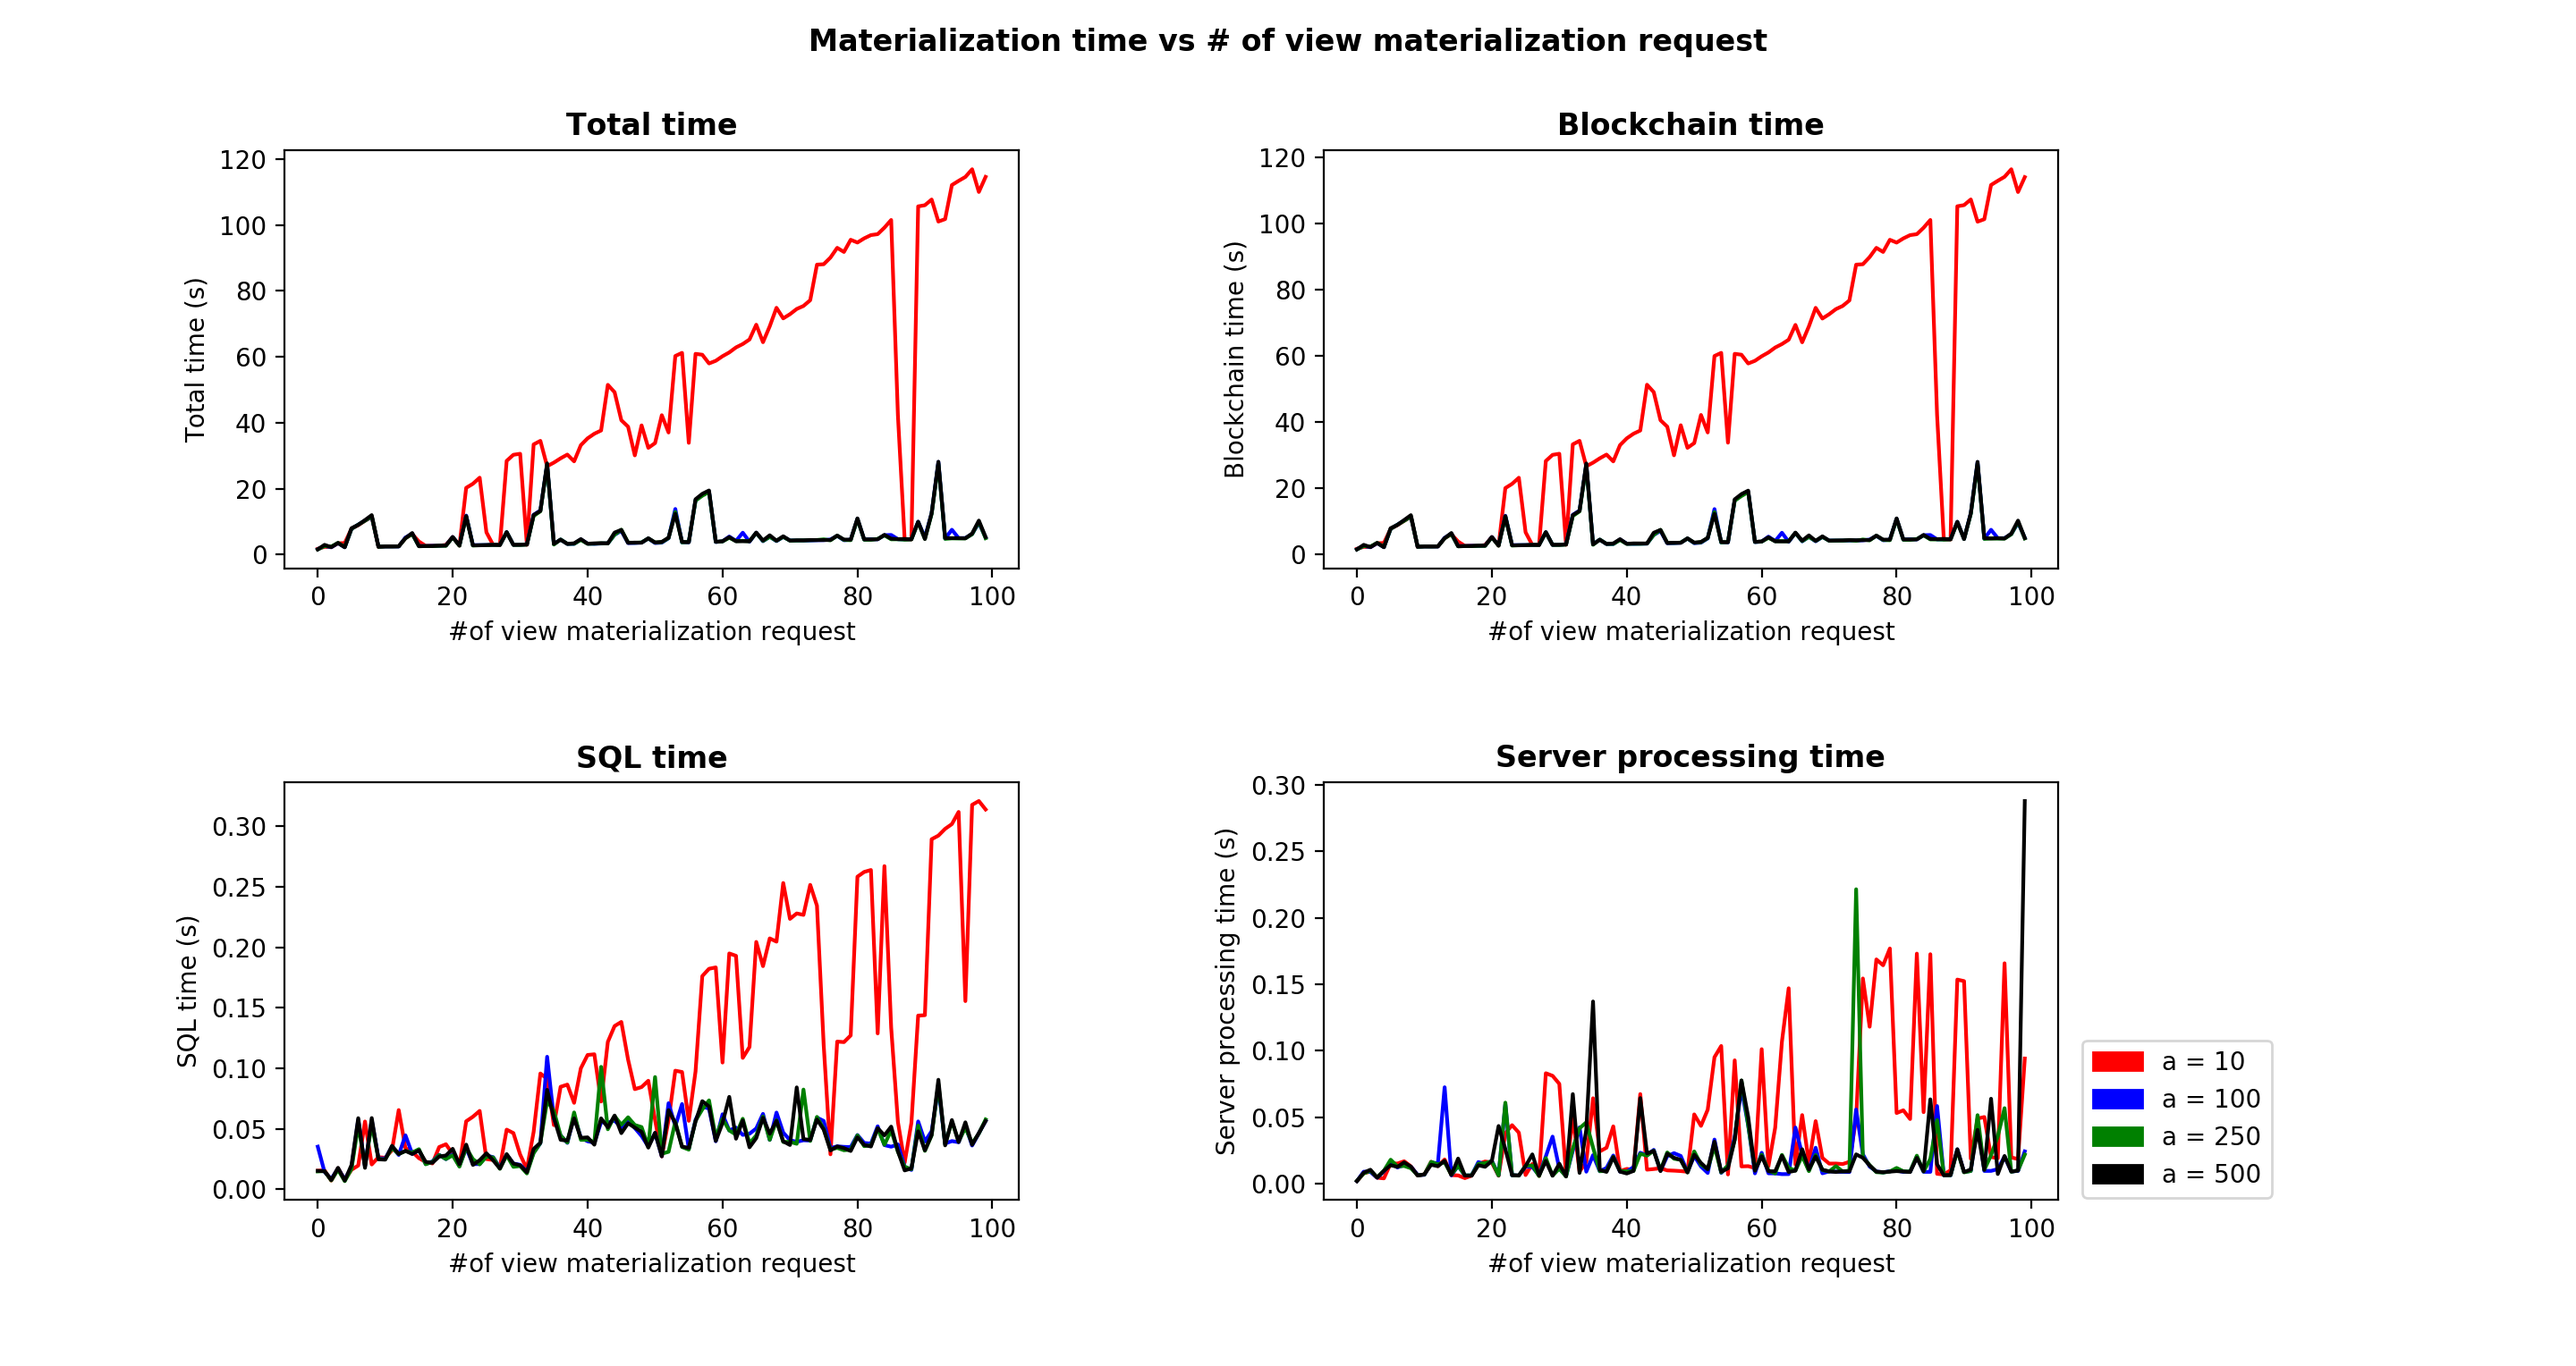
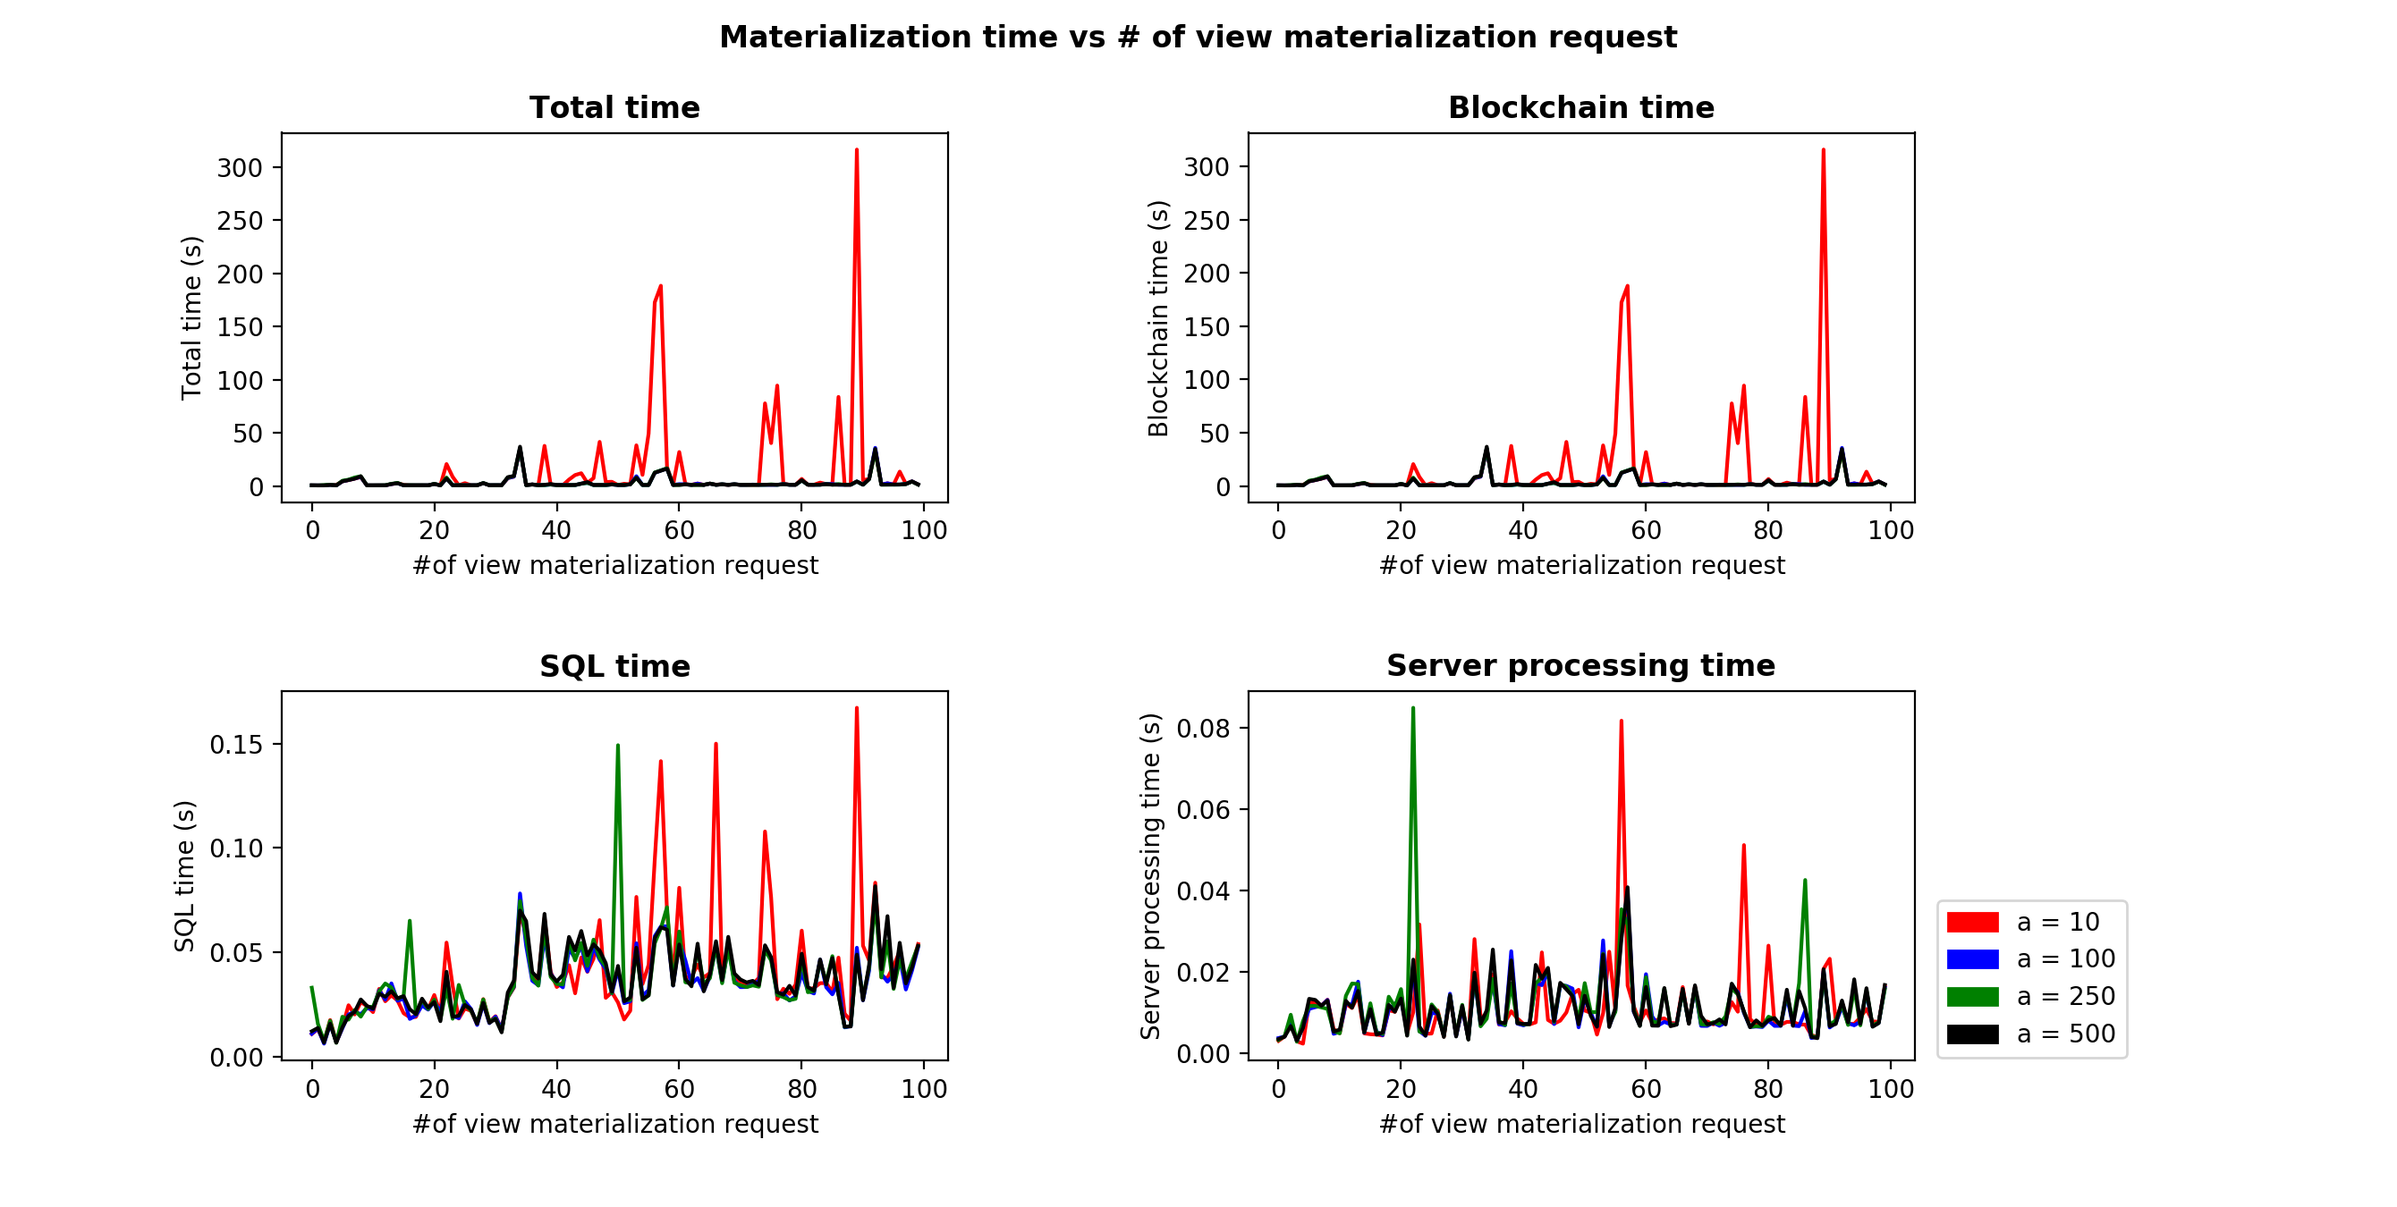
- new results graph

diff --git a/helpers/costFunctions.js b/helpers/costFunctions.js
@@ -6,7 +6,7 @@ function cost (Vi, V, latestFact) {
     // The cost of materializing view V using the cached view Vi
     const sizeDeltas = latestFact - Number.parseInt(Vi.latestFact); // latestFact is the latest fact written in bc
     const sizeCached = Number.parseInt(Vi.size);
-    V.calculationCost = 10 * sizeDeltas + sizeCached;
+    V.calculationCost = 500 * sizeDeltas + sizeCached;
     return V;
 }
 
@@ -20,7 +20,7 @@ function costMat (V, Vc, latestFact) {
         if (isMaterializableFrom(V,Vi)) {
             const sizeDeltas = latestFact - Number.parseInt(Vi.latestFact); // latestFact is the latest fact written in bc
             const sizeCached = Number.parseInt(Vi.size);
-            V.calculationCost = 10 * sizeDeltas + sizeCached;
+            V.calculationCost = 500 * sizeDeltas + sizeCached;
             costs.push(V);
         }
     }
@@ -119,7 +119,7 @@ function getViewsMaterialisableFromVi (Vc, Vi) {
 function calculationCostOfficial (groupBys, latestFact) { // the function we write on paper
     // where cost(Vi, V) = a * sizeDeltas(i) + sizeCached(i)
     // which is the cost to materialize view V from view Vi (where V < Vi)
-    const a = 10; // factor of deltas
+    const a = 500; // factor of deltas
     let sizeDeltas = 0;
     let sizeCached = 0;
     for (let i = 0; i < groupBys.length; i++) {

diff --git a/controllers/viewMaterializationController.js b/controllers/viewMaterializationController.js
@@ -13,8 +13,8 @@ function setContract (contractObject, account) {
 }
 
 function calculateForDeltasAndMergeWithCached (mostEfficient, latestId, createTable,
-    view, gbFields, sortedByEvictionCost,
-    globalAllGroupBysTime, getLatestFactIdTime, totalStart) {
+                                               view, gbFields, sortedByEvictionCost,
+                                               globalAllGroupBysTime, getLatestFactIdTime, totalStart) {
     return new Promise((resolve, reject) => {
         let matSteps = [];
         const bcTimeStart = helper.time();

diff --git a/README.md b/README.md
@@ -332,7 +332,7 @@ The results are the mean values of all iterations we performed for each value of
 
 The following plot may describe better the behavior of the cost function for the different values of <img width="15px" src="https://render.githubusercontent.com/render/math?math=a">.
 
-<img src="schematics/different_a_new.png" width="1440" align="center">
+<img src="schematics/different_a.png" width="1440" align="center">
 
 It seems that we have a clear "loser".
 10 seems to be very small value for <img width="15px" src="https://render.githubusercontent.com/render/math?math=a"> and it does not lead the function to sort the cached results in a way that the optimal one will be selected.
